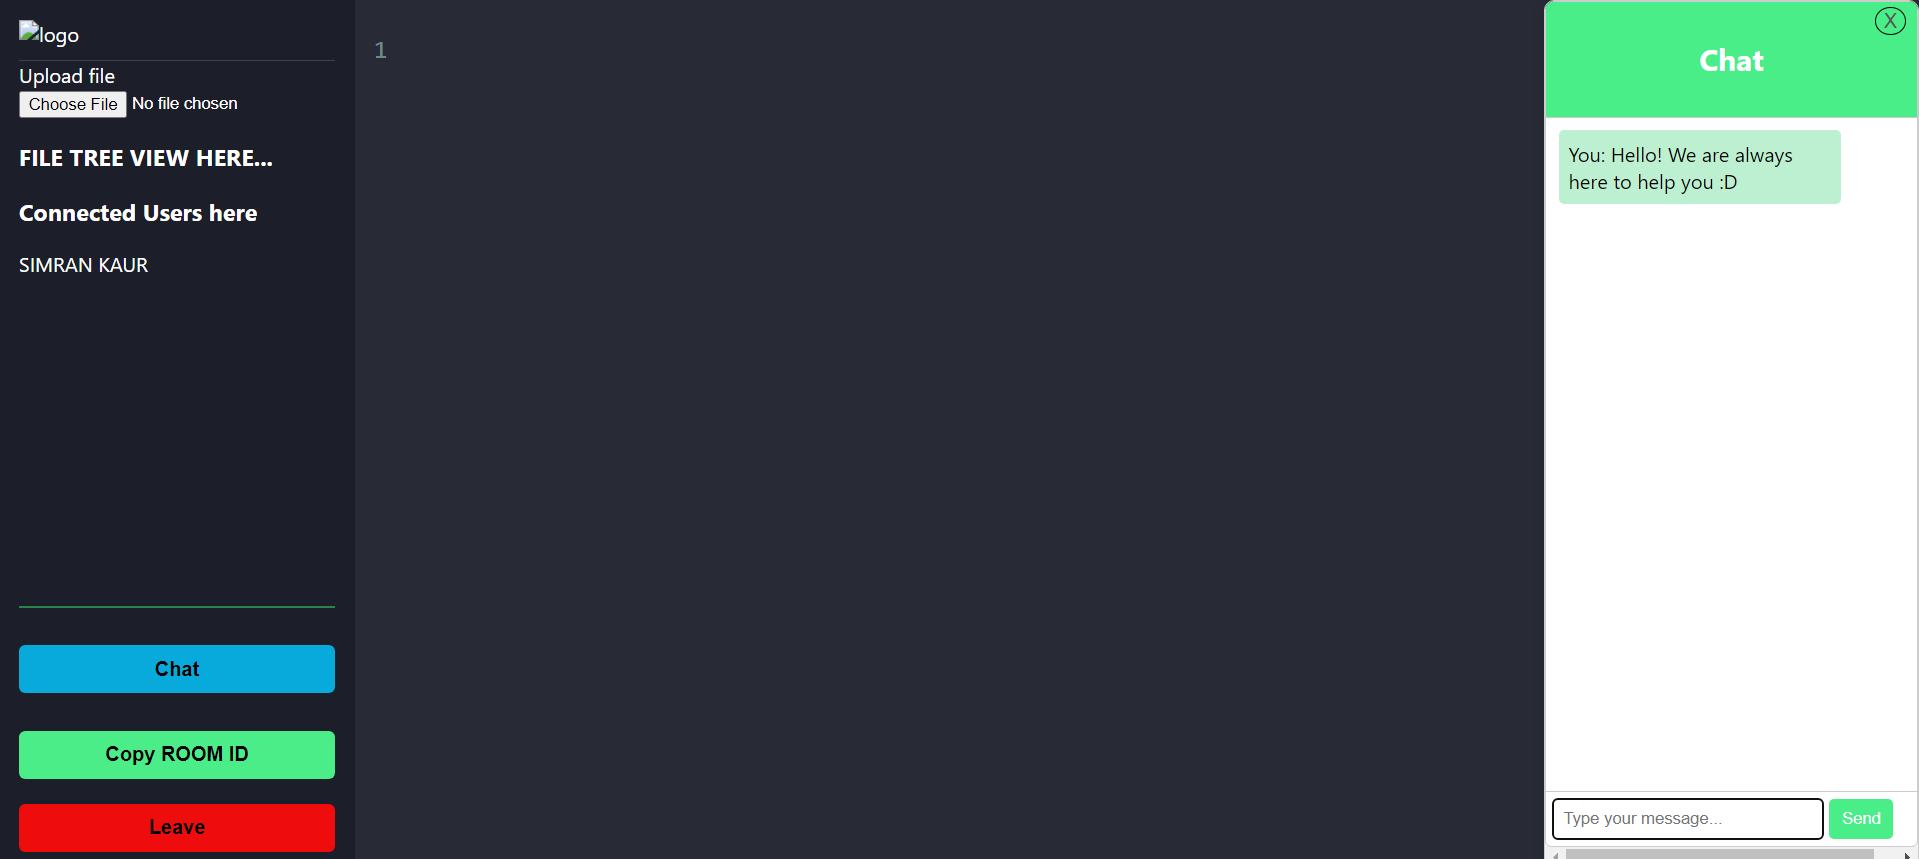
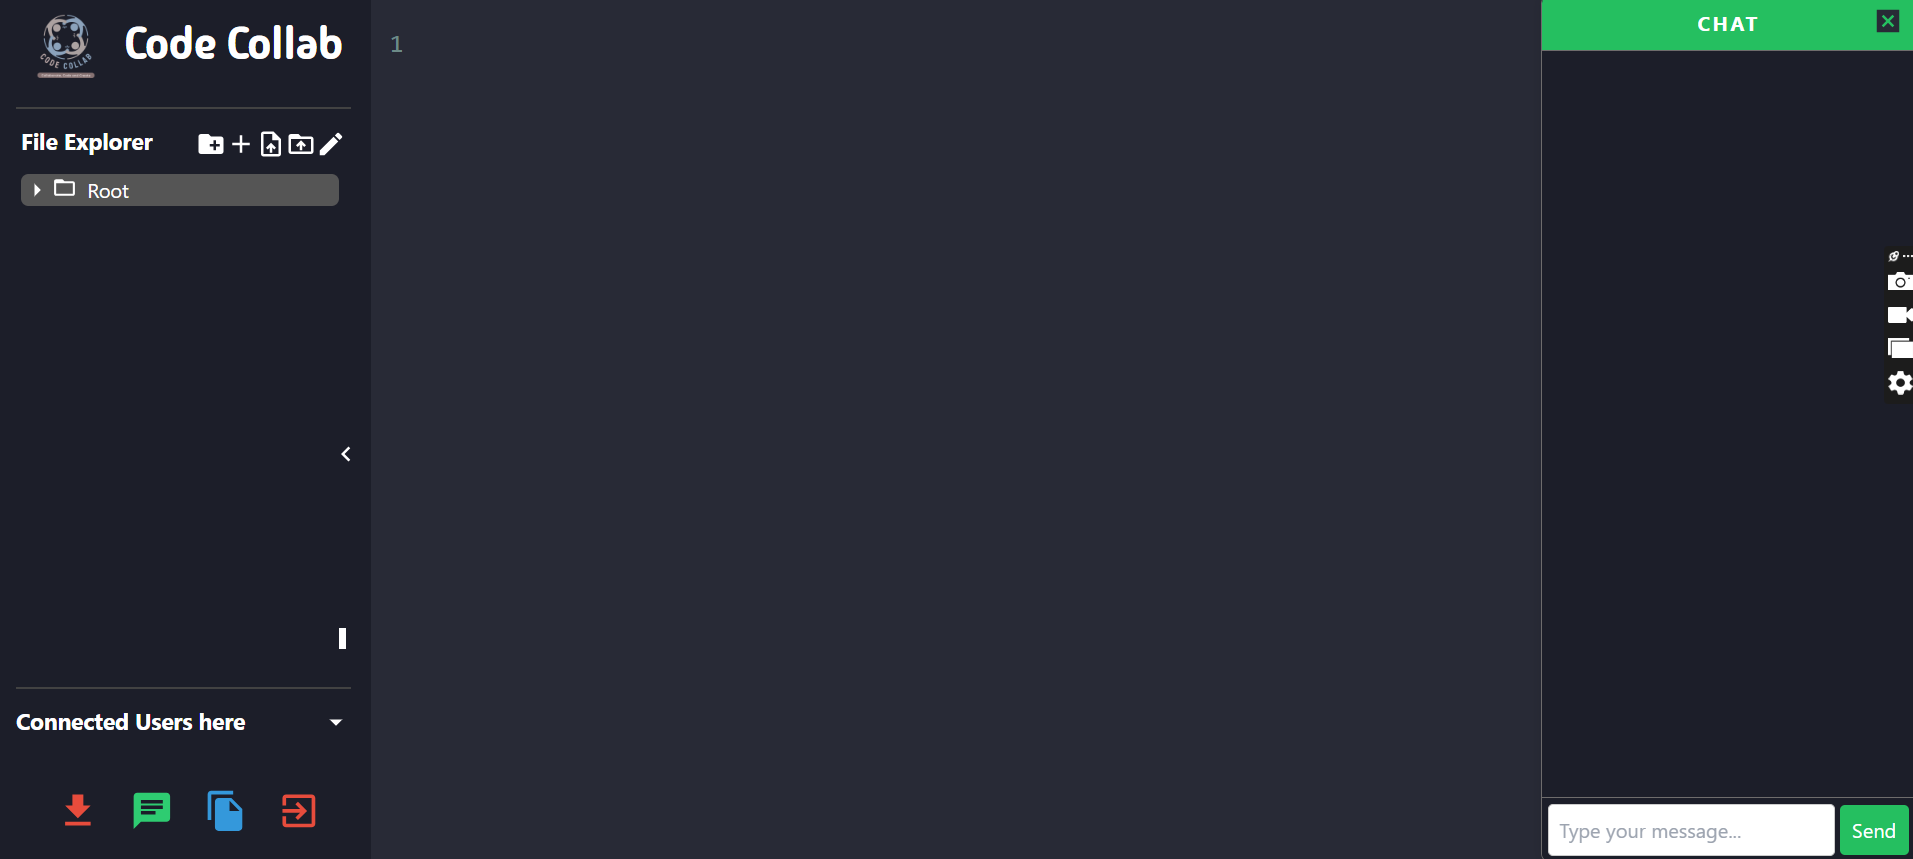
changes

diff --git a/frontend/src/components/Sidebar.js b/frontend/src/components/Sidebar.js
@@ -12,6 +12,8 @@ import { Tooltip } from '@mui/material' // Import IconButton component from Mate
 import ChatIcon from '@mui/icons-material/Chat' // Import ChatIcon from Material-UI
 import FileCopyIcon from '@mui/icons-material/FileCopy' // Import FileCopyIcon from Material-UI
 import ExitToAppIcon from '@mui/icons-material/ExitToApp' // Import ExitToAppIcon from Material-UI
+import DownloadIcon from '@mui/icons-material/Download'
+import axios from 'axios'
 
 const Sidebar = ({
   contentChanged,
@@ -38,7 +40,27 @@ const Sidebar = ({
   menuOpen,
   setMenuOpen
 }) => {
-//   const [menuOpen, setMenuOpen] = useState({})
+  //   const [menuOpen, setMenuOpen] = useState({})
+  const downloadZipFile = async (roomId) => {
+    try {
+      // Make a GET request to the backend endpoint
+      const response = await axios.get(`${process.env.REACT_APP_API_URL}/filesystem/download/${roomId}`, {
+        responseType: 'blob' // Specify the response type as blob
+      });
+
+      // Trigger the download by creating a blob URL and clicking on a temporary link
+      const url = window.URL.createObjectURL(new Blob([response.data], { type: 'application/zip' }));
+      const a = document.createElement('a');
+      a.href = url;
+      a.download = `room_${roomId}_files.zip`;
+      document.body.appendChild(a);
+      a.click();
+      window.URL.revokeObjectURL(url);
+
+    } catch (error) {
+      console.error('Error downloading zip file:', error);
+    }
+  };
   const handleUserMenuToggle = (username) => {
     setMenuOpen((prevMenuOpen) => ({
       ...prevMenuOpen,
@@ -73,108 +95,76 @@ const Sidebar = ({
   const handleToggle = () => {
     setIsConnectedComponentOpen(!isConnectedComponentOpen)
   }
-  const [downloadFileExtension, setFileExtension] = useState('')
-  const [downloadFileName, setFileName] = useState('')
-  const handleDownloadFile = () => {
-    const myContent = editorRef.current.getValue()
-    const element = document.createElement('a')
-    const file = new Blob([myContent], { type: 'text/plain' })
-    element.href = URL.createObjectURL(file)
-    element.download = `${downloadFileName}.${downloadFileExtension}`
-    document.body.appendChild(element)
-    element.click()
-    document.body.removeChild(element)
-  }
 
   const reactNavigator = useNavigate()
   const leaveRoom = async () => {
     try {
-      const userData = JSON.parse(localStorage.getItem('userData'))
-      const userCountResponse = await fetch(
-        'http://localhost:8080/rooms/numUsersInRoom',
-        {
-          method: 'POST',
-          headers: {
-            'Content-Type': 'application/json',
-          },
-          body: JSON.stringify({ roomId }),
-        }
-      )
+      const userData = JSON.parse(localStorage.getItem('userData'));
+      const userCountResponse = await fetch('http://localhost:8080/rooms/numUsersInRoom', {
+        method: 'POST',
+        headers: {
+          'Content-Type': 'application/json',
+        },
+        body: JSON.stringify({ roomId }),
+      });
+
       if (userCountResponse.ok) {
-        const { numUsers } = await userCountResponse.json()
-        if (numUsers === 1) {
-          const confirmDownload = window.confirm(
-            'You are the last user in the room. Once leaving the room the data will be deleted permanently. Do you want to download the content of the room before leaving ?'
-          )
-          if (confirmDownload) {
-            handleDownloadFile()
-            setTimeout(async () => {
-              const leaveResponse = await fetch(
-                'http://localhost:8080/delete-entry',
-                {
-                  method: 'POST',
-                  headers: {
-                    'Content-Type': 'application/json',
-                  },
-                  body: JSON.stringify({ roomId, username: userData.name }),
-                }
-              )
+        const { numUsers } = await userCountResponse.json();
+        const confirmLeave = window.confirm('Are you sure you want to leave the room?');
 
-              if (leaveResponse.ok) {
-                const data = await leaveResponse.json()
-                console.log(data)
-                reactNavigator('/', { roomId })
-              } else {
-                reactNavigator('/', { roomId })
-              }
-            }, 2000)
-          } else {
-            const leaveResponse = await fetch(
-              'http://localhost:8080/delete-entry',
-              {
-                method: 'POST',
-                headers: {
-                  'Content-Type': 'application/json',
-                },
-                body: JSON.stringify({ roomId, username: userData.name }),
-              }
-            )
+        if (confirmLeave) {
+          if (numUsers === 1) {
+            const confirmDownload = window.confirm(
+              'You are the last user in the room. Do you want to download the content of the room before leaving?'
+            );
 
-            if (leaveResponse.ok) {
-              const data = await leaveResponse.json()
-              console.log(data)
-              reactNavigator('/', { roomId })
-            } else {
-              reactNavigator('/', { roomId })
+            if (confirmDownload) {
+              downloadZipFile(roomId)
             }
-          }
-        } else {
-          const leaveResponse = await fetch(
-            'http://localhost:8080/delete-entry',
-            {
+
+            // Regardless of download confirmation, proceed with leaving the room
+            const leaveResponse = await fetch('http://localhost:8080/delete-entry', {
               method: 'POST',
               headers: {
                 'Content-Type': 'application/json',
               },
               body: JSON.stringify({ roomId, username: userData.name }),
-            }
-          )
+            });
 
-          if (leaveResponse.ok) {
-            const data = await leaveResponse.json()
-            console.log(data)
-            reactNavigator('/', { roomId })
+            if (leaveResponse.ok) {
+              const data = await leaveResponse.json();
+              console.log(data);
+              reactNavigator('/', { roomId });
+            } else {
+              reactNavigator('/', { roomId });
+            }
           } else {
-            reactNavigator('/', { roomId })
+            // Not the last user, simply leave the room
+            const leaveResponse = await fetch('http://localhost:8080/delete-entry', {
+              method: 'POST',
+              headers: {
+                'Content-Type': 'application/json',
+              },
+              body: JSON.stringify({ roomId, username: userData.name }),
+            });
+
+            if (leaveResponse.ok) {
+              const data = await leaveResponse.json();
+              console.log(data);
+              reactNavigator('/', { roomId });
+            } else {
+              reactNavigator('/', { roomId });
+            }
           }
         }
       } else {
-        throw new Error('Failed to fetch user count from the server')
+        throw new Error('Failed to fetch user count from the server');
       }
     } catch (error) {
-      console.error('Error leaving room:', error)
+      console.error('Error leaving room:', error);
     }
-  }
+  };
+
   async function copyRoomId() {
     try {
       await navigator.clipboard.writeText(roomId)
@@ -184,11 +174,11 @@ const Sidebar = ({
       console.error(err)
     }
   }
+  const download = async () => { downloadZipFile(roomId) }
   return (
     <div
-      className={`flex flex-col justify-between h-screen text-white px-4 relative transition-all duration-500 ease-in-out transform ${
-        isLeftDivOpen ? 'col-span-2 ' : '-translate-x-full'
-      }`}
+      className={`flex flex-col justify-between h-screen text-white px-4 relative transition-all duration-500 ease-in-out transform ${isLeftDivOpen ? 'col-span-2 ' : '-translate-x-full'
+        }`}
       style={{ backgroundColor: '#1c1e29', minWidth: '80px' }}
     >
       <div className='logo flex items-center'>
@@ -261,8 +251,8 @@ const Sidebar = ({
                         {user.username === host.current
                           ? 'host'
                           : connectedUserRoles.find(
-                              (userRole) => userRole.name === user.username
-                            )?.role}
+                            (userRole) => userRole.name === user.username
+                          )?.role}
                       </div>
                     </MenuItem>
                     {storedUserData.current.name === host.current &&
@@ -286,6 +276,14 @@ const Sidebar = ({
           className='flex gap-2'
           style={{ display: 'flex', justifyContent: 'right' }}
         >
+          <Tooltip title='Download'>
+            <IconButton
+              onClick={download}
+              style={{ color: '#e74c3c' }}
+            >
+              <DownloadIcon style={{ fontSize: 35 }} />
+            </IconButton>
+          </Tooltip>
           <Tooltip title='Chat'>
             <IconButton
               // className='btn chat-btn'

diff --git a/frontend/src/components/FileView.js b/frontend/src/components/FileView.js
@@ -91,6 +91,10 @@ const FileView = ({
         handleSaveFile(currentFile, true)
         event.preventDefault()
       }
+      else if (event.ctrlKey && event.key === 'd') {
+        event.preventDefault();
+        downloadZipFile(roomId);
+      }
     }
     document.addEventListener('keydown', handleCtrlS)
     return () => {
@@ -210,7 +214,7 @@ const FileView = ({
       console.error(error)
     }
   }
-  
+
   // More code...
 
   const handleDownloadFile = () => {
@@ -448,17 +452,15 @@ const FileView = ({
         className='flex flex-col mb-1 h-fit'
         style={{
           marginLeft: `${depth === 0 ? 0 : 10}px`,
-          maxWidth: `${
-            depth === 0 ? `${parentWidth}px` : `${parentWidth - depth * 10}px`
-          }`,
+          maxWidth: `${depth === 0 ? `${parentWidth}px` : `${parentWidth - depth * 10}px`
+            }`,
         }}
       >
         <div
-          className={`flex items-center p-px  ${
-            selectedFileFolder && selectedFileFolder._id === folder._id
-              ? 'Selected-file-folder'
-              : ''
-          } rounded-md`}
+          className={`flex items-center p-px  ${selectedFileFolder && selectedFileFolder._id === folder._id
+            ? 'Selected-file-folder'
+            : ''
+            } rounded-md`}
 
         >
           <div className='grow flex relative '>
@@ -664,22 +666,22 @@ const FileView = ({
 
   const downloadZipFile = async (roomId) => {
     try {
-        // Make a GET request to the backend endpoint
-        const response = await axios.get(`${process.env.REACT_APP_API_URL}/filesystem/download/${roomId}`, {
-            responseType: 'blob' // Specify the response type as blob
-        });
+      // Make a GET request to the backend endpoint
+      const response = await axios.get(`${process.env.REACT_APP_API_URL}/filesystem/download/${roomId}`, {
+        responseType: 'blob' // Specify the response type as blob
+      });
 
-        // Trigger the download by creating a blob URL and clicking on a temporary link
-        const url = window.URL.createObjectURL(new Blob([response.data], { type: 'application/zip' }));
-        const a = document.createElement('a');
-        a.href = url;
-        a.download = `room_${roomId}_files.zip`;
-        document.body.appendChild(a);
-        a.click();
-        window.URL.revokeObjectURL(url);
+      // Trigger the download by creating a blob URL and clicking on a temporary link
+      const url = window.URL.createObjectURL(new Blob([response.data], { type: 'application/zip' }));
+      const a = document.createElement('a');
+      a.href = url;
+      a.download = `room_${roomId}_files.zip`;
+      document.body.appendChild(a);
+      a.click();
+      window.URL.revokeObjectURL(url);
 
     } catch (error) {
-        console.error('Error downloading zip file:', error);
+      console.error('Error downloading zip file:', error);
     }
   };
 
@@ -870,7 +872,7 @@ const FileView = ({
               </div>
             )}
           </div>
-            {loading === true && (
+          {loading === true && (
             <div className="flex justify-center items-center pb-2">
               <CircularProgress color='inherit' size={30} />
             </div>

diff --git a/frontend/src/styles/helpPage.css b/frontend/src/styles/helpPage.css
@@ -16,7 +16,7 @@
 }
 
 .bigger-container {
-    background-image: url("https://img.freepik.com/premium-photo/colorful-line-wave-background-geometric-banner-flyer-wallpaper-template_665280-5059.jpg?w=360");
+    /* background-image: url("https://img.freepik.com/premium-photo/colorful-line-wave-background-geometric-banner-flyer-wallpaper-template_665280-5059.jpg?w=360"); */
     color: #ffffff;
     background-size: cover;
     font-family: 'Roboto', sans-serif;
@@ -74,7 +74,7 @@
 .stepimage img {
     max-width: 100%;
     border-radius: 5px;
-    box-shadow: 0 0 10px rgba(0, 0, 0, 0.5);
+    box-shadow: 0 0 10px rgba(245, 244, 244, 0.5);
 }
 
 .frm {
